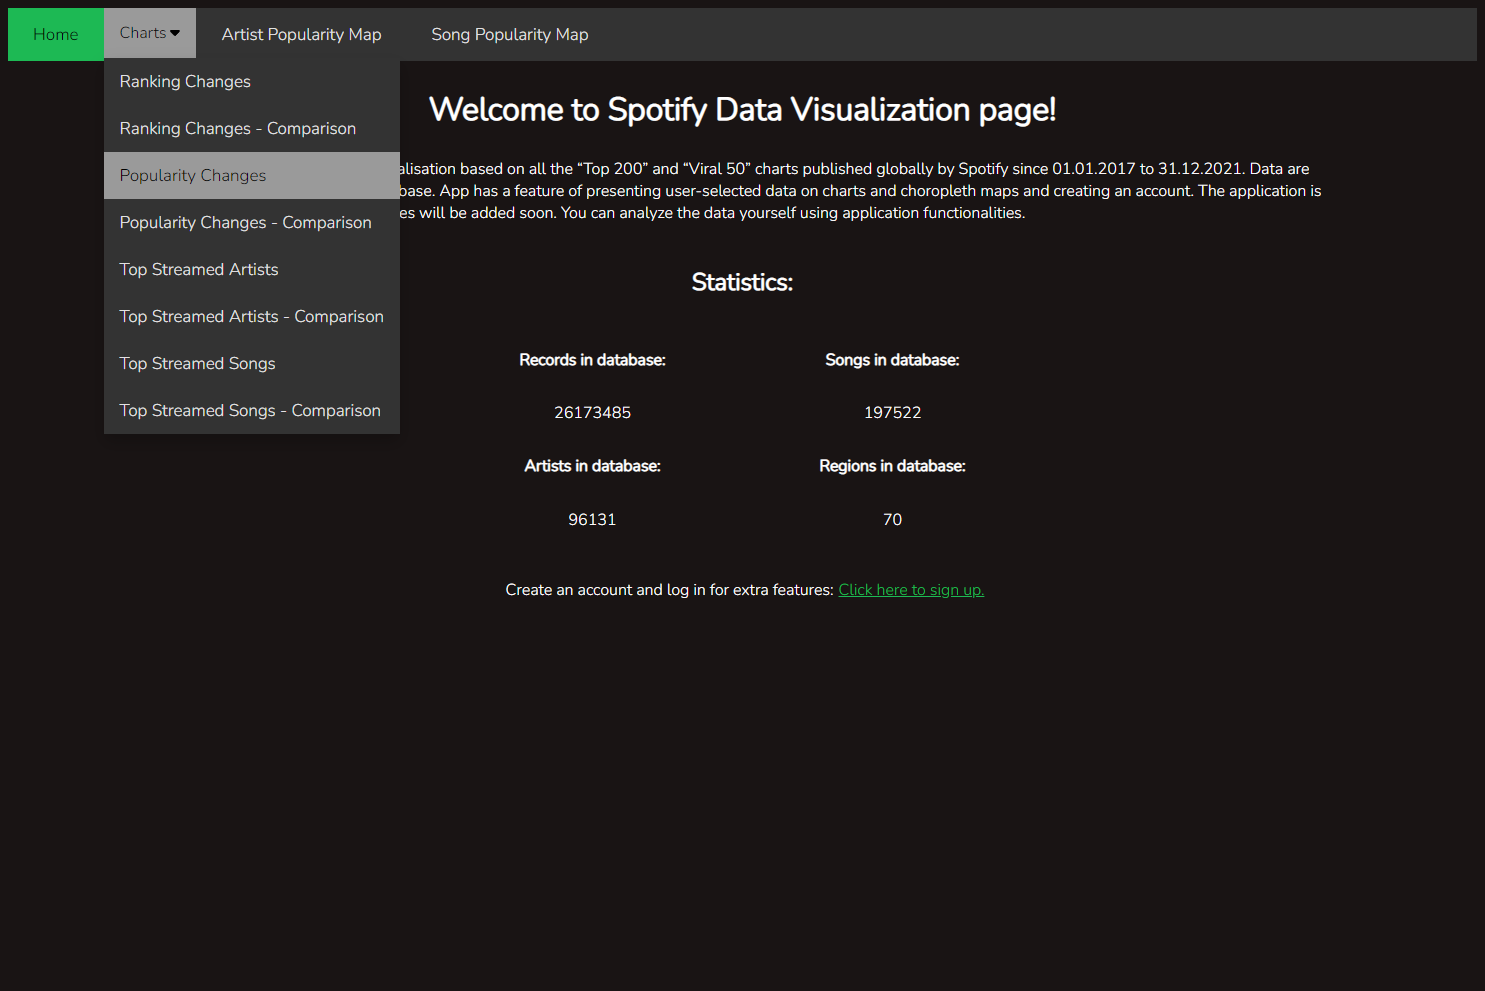
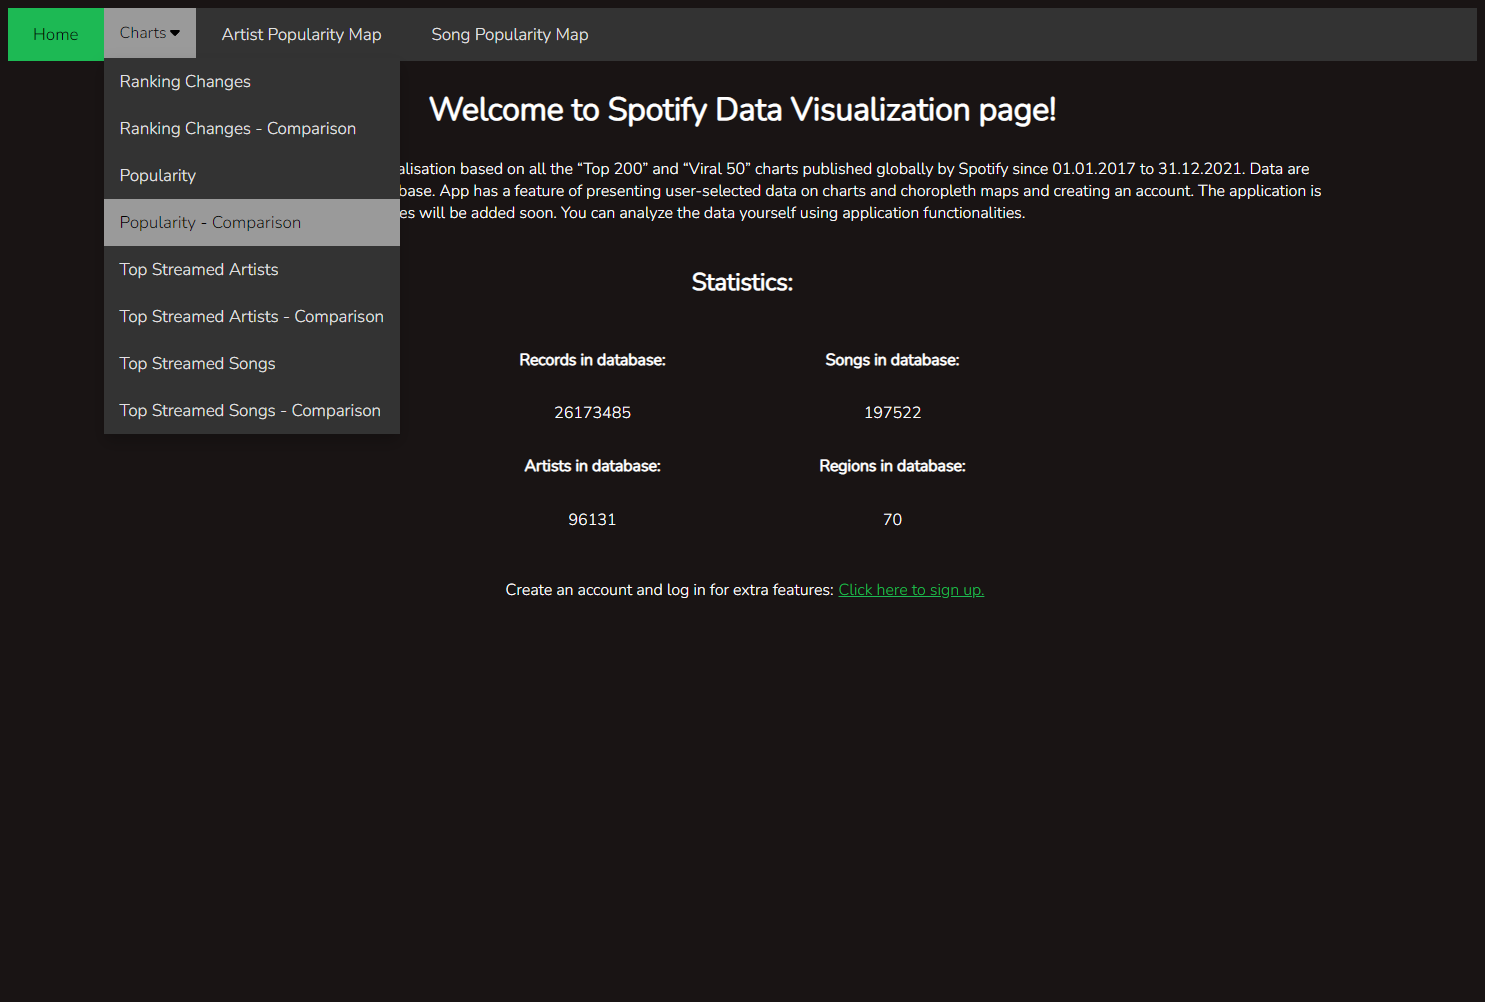
Updating README, correcting chart names

diff --git a/source/spotify_data/templates/base.html b/source/spotify_data/templates/base.html
@@ -28,10 +28,10 @@
         <a href="{% url 'rank_chart_2' %}">Ranking Changes - Comparison</a>
         {% endblock %}
         {% block nav-popul-chart %}
-        <a href="{% url 'popul_chart' %}">Popularity Changes</a>
+        <a href="{% url 'popul_chart' %}">Popularity </a>
         {% endblock %}
         {% block nav-popul-chart-2 %}
-        <a href="{% url 'popul_chart_2' %}">Popularity Changes - Comparison</a>
+        <a href="{% url 'popul_chart_2' %}">Popularity - Comparison</a>
         {% endblock %}
         {% block nav-top-artists-chart %}
         <a href="{% url 'top_streamed_artists_chart' %}">Top Streamed Artists</a>

diff --git a/source/spotify_data/templates/charts/popularity_chart_2.html b/source/spotify_data/templates/charts/popularity_chart_2.html
@@ -1,5 +1,5 @@
 {% extends 'base.html' %}
-{% block nav-popul-chart-2 %}<a class="active">Popularity Changes - Comparison</a>{% endblock %}
+{% block nav-popul-chart-2 %}<a class="active">Popularity - Comparison</a>{% endblock %}
 {% block content %}
 <body>
   <div class="desc_box">The chart shows how many times songs by a particular two artists have appeared in the ranking for user-specified parameters such as time period, region, chart, artists and top ranking.</div>

diff --git a/source/spotify_data/templates/charts/popularity_chart.html b/source/spotify_data/templates/charts/popularity_chart.html
@@ -1,5 +1,5 @@
 {% extends 'base.html' %}
-{% block nav-popul-chart %}<a class="active">Popularity Changes</a>{% endblock %}
+{% block nav-popul-chart %}<a class="active">Popularity</a>{% endblock %}
 {% block content %}
 <body>
   <div class="desc_box">The chart shows how many times songs by a particular artist have appeared in the ranking for user-specified parameters such as time period, region, chart, artist and top ranking.</div>

diff --git a/README.md b/README.md
@@ -11,15 +11,47 @@ The project consists of two parts:
 1) Spotify Data overview and preparation of charts to be used in the application - that part is completed. 
 2) Implementation of Django and creation usable program allowing the user to decide what data to include in the charts.
 
-## 1 part - Spotify Data Overview 
+## Images from Website 
 
+Home page
+![](images/1_homepage.png)
+
+Dropdown list of charts
+![](images/1.5_dropdown_charts.png)
+
+Creating an Account page
+![](images/2_register.png)
+
+Creating an Account - validation
+![](images/3_register_validation.png)
+
+Log in page
+![](images/4_login.png)
+
+Example chart - Popularity Comparison Chart
+![](images/5_songs_in_ranks_comp.png)
+
+Example chart - Ranking Changes
+![](images/6_ranking_changes.png)
+
+Example chart - Top Streamed Artists 
+![](images/7_top_streamed.png)
+
+Example chart - Artist Popularity Map 
+![](images/8_artist_popul.png)
+
+Example chart - Song Popularity Map 
+![](images/9_songs_popul.png)
+
+Each chart/choropleth is interactive
+![](images/10_interactive_charts.png)
+
+
+## 1 part - Spotify Data Overview 
 
 Because of the large amount of data, it was necessary to open and optimize data with Dask before exploring data in Pandas Dataframe. The dataset overview was proceeded in Jupyter Notebook with graph made with Plotly Express.
 
 *Sample images of charts from Jupyter Notebook Analysis*
-
-Top streamed songs in choosen region
-![](images/top_streamed_regions_c.png)
 
 Top streamed artists in choosen regions
 ![](images/top_streamed_art_reg_com.png)
@@ -27,16 +59,11 @@ Top streamed artists in choosen regions
 Songs occurance in ranking comparison for choosen region
 ![](images/songs_occur_in_rank_com.png)
 
-Percentage share of artist in all streams (world map)
+Percentage share of artist in all streams (choropleth)
 ![](images/per_share_artist_map.png)
-
-Songs rank changes over time
-![](images/song_rank_changes_com.png)
 
 
 ## 2 part - Django App implementation 
-
-
 
 ## Setup
 
